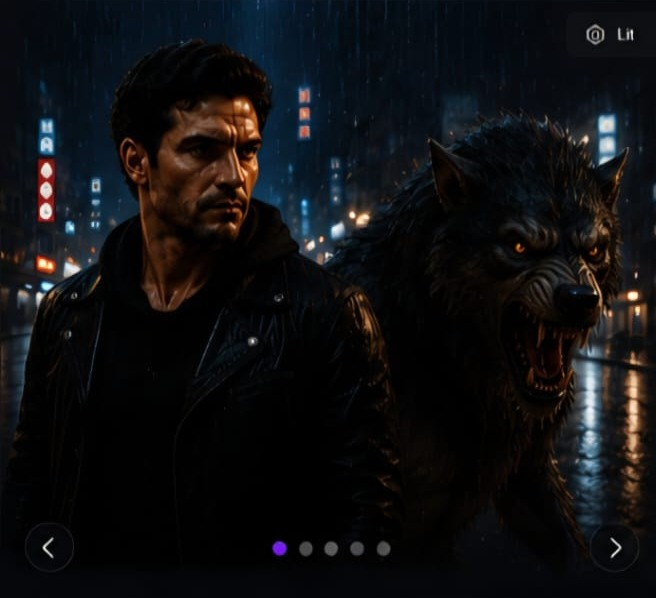
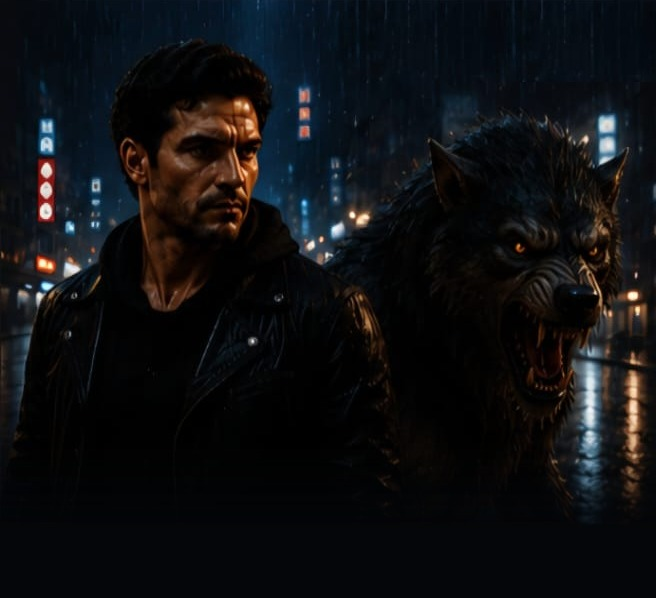
Isolate option artwork and clean preview controls

diff --git a/frontend/src/styles/character-identity.css b/frontend/src/styles/character-identity.css
@@ -38,33 +38,33 @@
 }
 
 .nexkosmo-studio--character-identity .style-card {
-  background-image: url("../assets/pre-production/style-options.jpeg");
+  background-position: center;
   background-repeat: no-repeat;
-  background-size: 600% 100%;
+  background-size: cover;
 }
 
 .nexkosmo-studio--character-identity .style-crop-1 {
-  background-position: 0% center;
+  background-image: url("../assets/pre-production/style-realistic.jpeg");
 }
 
 .nexkosmo-studio--character-identity .style-crop-2 {
-  background-position: 20% center;
+  background-image: url("../assets/pre-production/style-cartoon.jpeg");
 }
 
 .nexkosmo-studio--character-identity .style-crop-3 {
-  background-position: 40% center;
+  background-image: url("../assets/pre-production/style-anime.jpeg");
 }
 
 .nexkosmo-studio--character-identity .style-crop-4 {
-  background-position: 60% center;
+  background-image: url("../assets/pre-production/style-game.jpeg");
 }
 
 .nexkosmo-studio--character-identity .style-crop-5 {
-  background-position: 80% center;
+  background-image: url("../assets/pre-production/style-comic.jpeg");
 }
 
 .nexkosmo-studio--character-identity .style-crop-6 {
-  background-position: 100% center;
+  background-image: url("../assets/pre-production/style-stylized.jpeg");
 }
 
 .nexkosmo-studio--character-identity .filter-row button {
@@ -76,59 +76,60 @@
   min-width: 0;
 }
 
-.nexkosmo-studio--character-identity .species-portrait {
-  background-image: url("../assets/pre-production/species-options.jpeg");
+.nexkosmo-studio--character-identity
+  .species-card
+  .species-portrait {
+  background-position: center;
   background-repeat: no-repeat;
-  background-size: 800% 100%;
+  background-size: cover;
 }
 
 .nexkosmo-studio--character-identity
   .species-card:nth-child(1)
   .species-portrait {
-  background-position: 0% center;
+  background-image: url("../assets/pre-production/species-human.jpeg");
 }
 
 .nexkosmo-studio--character-identity
   .species-card:nth-child(2)
   .species-portrait {
-  background-position: 14.2857% center;
+  background-image: url("../assets/pre-production/species-elf.jpeg");
 }
 
 .nexkosmo-studio--character-identity
   .species-card:nth-child(3)
   .species-portrait {
-  background-position: 28.5714% center;
+  background-image: url("../assets/pre-production/species-orc.jpeg");
 }
 
 .nexkosmo-studio--character-identity
   .species-card:nth-child(4)
   .species-portrait {
-  background-image: url("../assets/pre-production/species-options.jpeg");
-  background-position: 42.8571% center;
+  background-image: url("../assets/pre-production/species-robot.jpeg");
 }
 
 .nexkosmo-studio--character-identity
   .species-card:nth-child(5)
   .species-portrait {
-  background-position: 57.1429% center;
+  background-image: url("../assets/pre-production/species-dragon.jpeg");
 }
 
 .nexkosmo-studio--character-identity
   .species-card:nth-child(6)
   .species-portrait {
-  background-position: 71.4286% center;
+  background-image: url("../assets/pre-production/species-alien.jpeg");
 }
 
 .nexkosmo-studio--character-identity
   .species-card:nth-child(7)
   .species-portrait {
-  background-position: 85.7143% center;
+  background-image: url("../assets/pre-production/species-monkey.jpeg");
 }
 
 .nexkosmo-studio--character-identity
   .species-card:nth-child(8)
   .species-portrait {
-  background-position: 100% center;
+  background-image: url("../assets/pre-production/species-demon.jpeg");
 }
 
 .nexkosmo-studio--character-identity .accessory-tabs button {
@@ -141,37 +142,37 @@
 
 .nexkosmo-studio--character-identity
   .glasses-card:nth-child(n + 3):nth-child(-n + 9) {
-  background-image: url("../assets/pre-production/glasses-options.jpeg");
+  background-position: center top;
   background-repeat: no-repeat;
-  background-size: 700% 68%;
+  background-size: 100% 68%;
 }
 
 .nexkosmo-studio--character-identity .glasses-card:nth-child(3) {
-  background-position: 0% top;
+  background-image: url("../assets/pre-production/glasses-aviator.jpeg");
 }
 
 .nexkosmo-studio--character-identity .glasses-card:nth-child(4) {
-  background-position: 16.6667% top;
+  background-image: url("../assets/pre-production/glasses-wayfarer.jpeg");
 }
 
 .nexkosmo-studio--character-identity .glasses-card:nth-child(5) {
-  background-position: 33.3333% top;
+  background-image: url("../assets/pre-production/glasses-round.jpeg");
 }
 
 .nexkosmo-studio--character-identity .glasses-card:nth-child(6) {
-  background-position: 50% top;
+  background-image: url("../assets/pre-production/glasses-rectangle.jpeg");
 }
 
 .nexkosmo-studio--character-identity .glasses-card:nth-child(7) {
-  background-position: 66.6667% top;
+  background-image: url("../assets/pre-production/glasses-vintage.jpeg");
 }
 
 .nexkosmo-studio--character-identity .glasses-card:nth-child(8) {
-  background-position: 83.3333% top;
+  background-image: url("../assets/pre-production/glasses-clear-frame.jpeg");
 }
 
 .nexkosmo-studio--character-identity .glasses-card:nth-child(9) {
-  background-position: 100% top;
+  background-image: url("../assets/pre-production/glasses-sunglasses.jpeg");
 }
 
 .nexkosmo-studio--character-identity .glasses-card:nth-child(1) svg,
